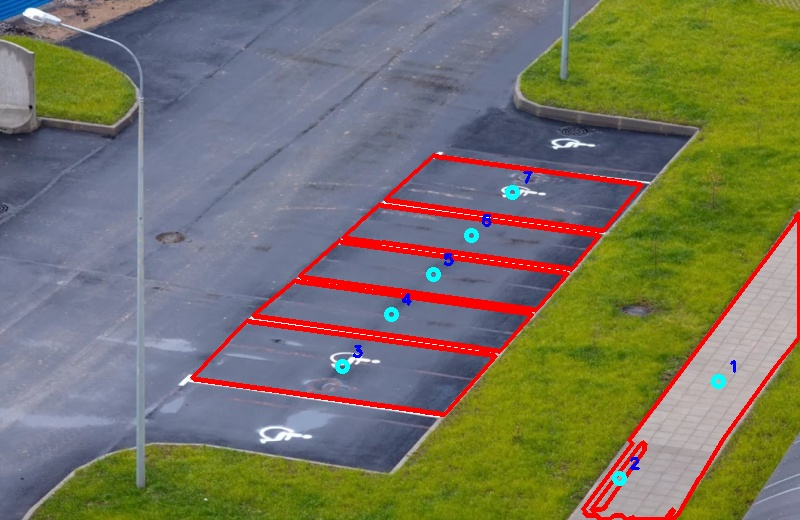
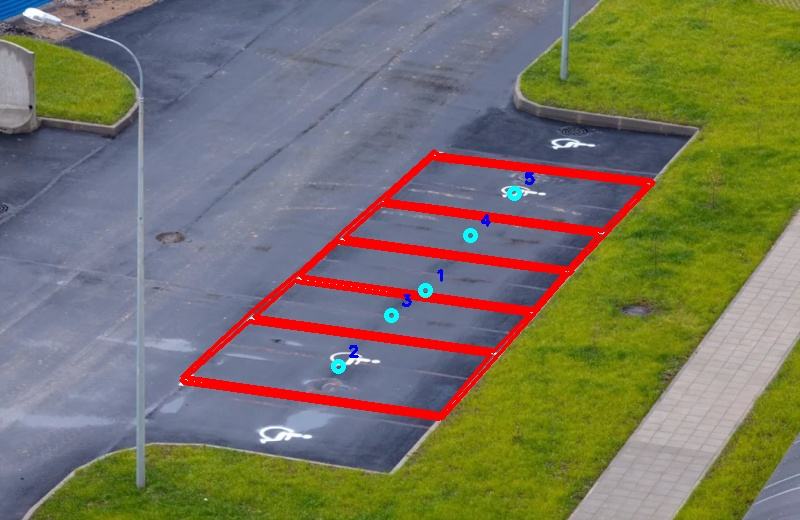
Сделал вывод FINAL.jpg на сайт

diff --git a/CarWash/apps/users/templates/users/show_parking.html b/CarWash/apps/users/templates/users/show_parking.html
@@ -1,13 +1,14 @@
+{% load static %}
+
 <html>
 <head>
 <meta charset="UTF-8">
 </head>
 <body>
 {% if logged_in == True %}
-        path to img {{ img }}
-        <img src="C:/CREESTL/Programming/PythonCoding/semestr_4/CarWash/media/FINAL.jpg">
+        <img src='{% static  "FINAL.jpg" %}' width="400" height="300">
 {% else %}
-    <h2>Вы не вошли в аккаунт! Содержиоме страницы недоступно</h2>
+    <h2>Вы не вошли в аккаунт! Содержимое страницы недоступно</h2>
     <div class="border-top pt-3">
         <small class="text-muted">
             <a class="ml-2" href="/login">

diff --git a/CarWash/apps/users/parking_lot_detection.py b/CarWash/apps/users/parking_lot_detection.py
@@ -428,6 +428,7 @@ def process(original_img):
 
     centroids = to_class_list(centroids) # делаем массив классов вместо просто массива
 
+
     # все центриды рисуются в виде синих кругов
     if show_steps:
         for c in centroids:
@@ -509,7 +510,7 @@ def process(original_img):
     # финальная версия картинки выводится на экран
     #cv.imshow("FINAL", for_pure_rects)
     # финальная версия картинки сохраняется в папку, а потом выводится на HTML страницу
-    cv.imwrite(r"C:\CREESTL\Programming\PythonCoding\semestr_4\CarWash\media\FINAL.png", for_pure_rects)
+    cv.imwrite(r"C:\CREESTL\Programming\PythonCoding\semestr_4\CarWash\media\FINAL.jpg", for_pure_rects)
 
 
     # после всех преобразований возвращает:
@@ -523,3 +524,6 @@ def process(original_img):
 
 # путь к фотографии, которую хотим обработать
 original_img = cv.imread(r'C:\CREESTL\Programming\PythonCoding\semestr_3\parking_lot_detection\parking_lots\empty.jpg')
+
+if __name__ == "__main__":
+    process(original_img)

diff --git a/CarWash/settings.py b/CarWash/settings.py
@@ -43,6 +43,7 @@ MIDDLEWARE = [
     'django.contrib.auth.middleware.AuthenticationMiddleware',
     'django.contrib.messages.middleware.MessageMiddleware',
     'django.middleware.clickjacking.XFrameOptionsMiddleware',
+
 ]
 
 ROOT_URLCONF = 'CarWash.urls'
@@ -114,7 +115,7 @@ USE_TZ = True
 # Static files (CSS, JavaScript, Images)
 # https://docs.djangoproject.com/en/3.0/howto/static-files/
 
-STATIC_URL = '/static/'
+
 
 # папка, из которой будет загружаться медиа
 # MEADIA_ROOT = C:\CREESTL\Programming\PythonCoding\semestr_4\CarWash\media
@@ -123,4 +124,9 @@ MEDIA_ROOT = os.path.join(BASE_DIR, 'media\\')
 CRISPY_TEMPLATE_PACK = 'bootstrap4' # делаем стильна bootstrap4
 
 # После входа пользователей перенаправляет на страницу с видео
-LOGIN_REDIRECT_URL = '../../video/1' # сделано топорно  
+LOGIN_REDIRECT_URL = '../../video/1' # сделано топорно
+
+# Здесь хранятся фотки
+# Указываем что все они в папке static в корне проекта
+STATIC_URL = '/static/'
+STATICFILES_DIRS = [os.path.join(BASE_DIR, 'static')]

diff --git a/CarWash/apps/users/views.py b/CarWash/apps/users/views.py
@@ -132,19 +132,18 @@ def activate_opencv(request):
 
     # Вместо того, чтобы показываться во вспылвающем окне, обработанная фотография записывается в файл,
     # который потом будет загруже на HTML страницу
-    ready_img_path = "C:\CREESTL\Programming\PythonCoding\semestr_4\CarWash\media\FINAL.png"
+
+
+
+    # СЮДА ПОМЕСТИТЬ РАСПОЗАВАНИЕ НОМЕРОВ
+
+
 
     if auth.current_user is not None:
         logged_in = True
+        return render(request, 'users/show_parking.html', {"logged_in": logged_in})
     else:
         logged_in = False
-
-    if ready_img_path is not None:
-        return render(request, 'users/show_parking.html', {"img": ready_img_path, "logged_in":logged_in})
-    else:
         return render(request, "users/index.html")
 
     return render(request, "users/index.html")
-
-
-
